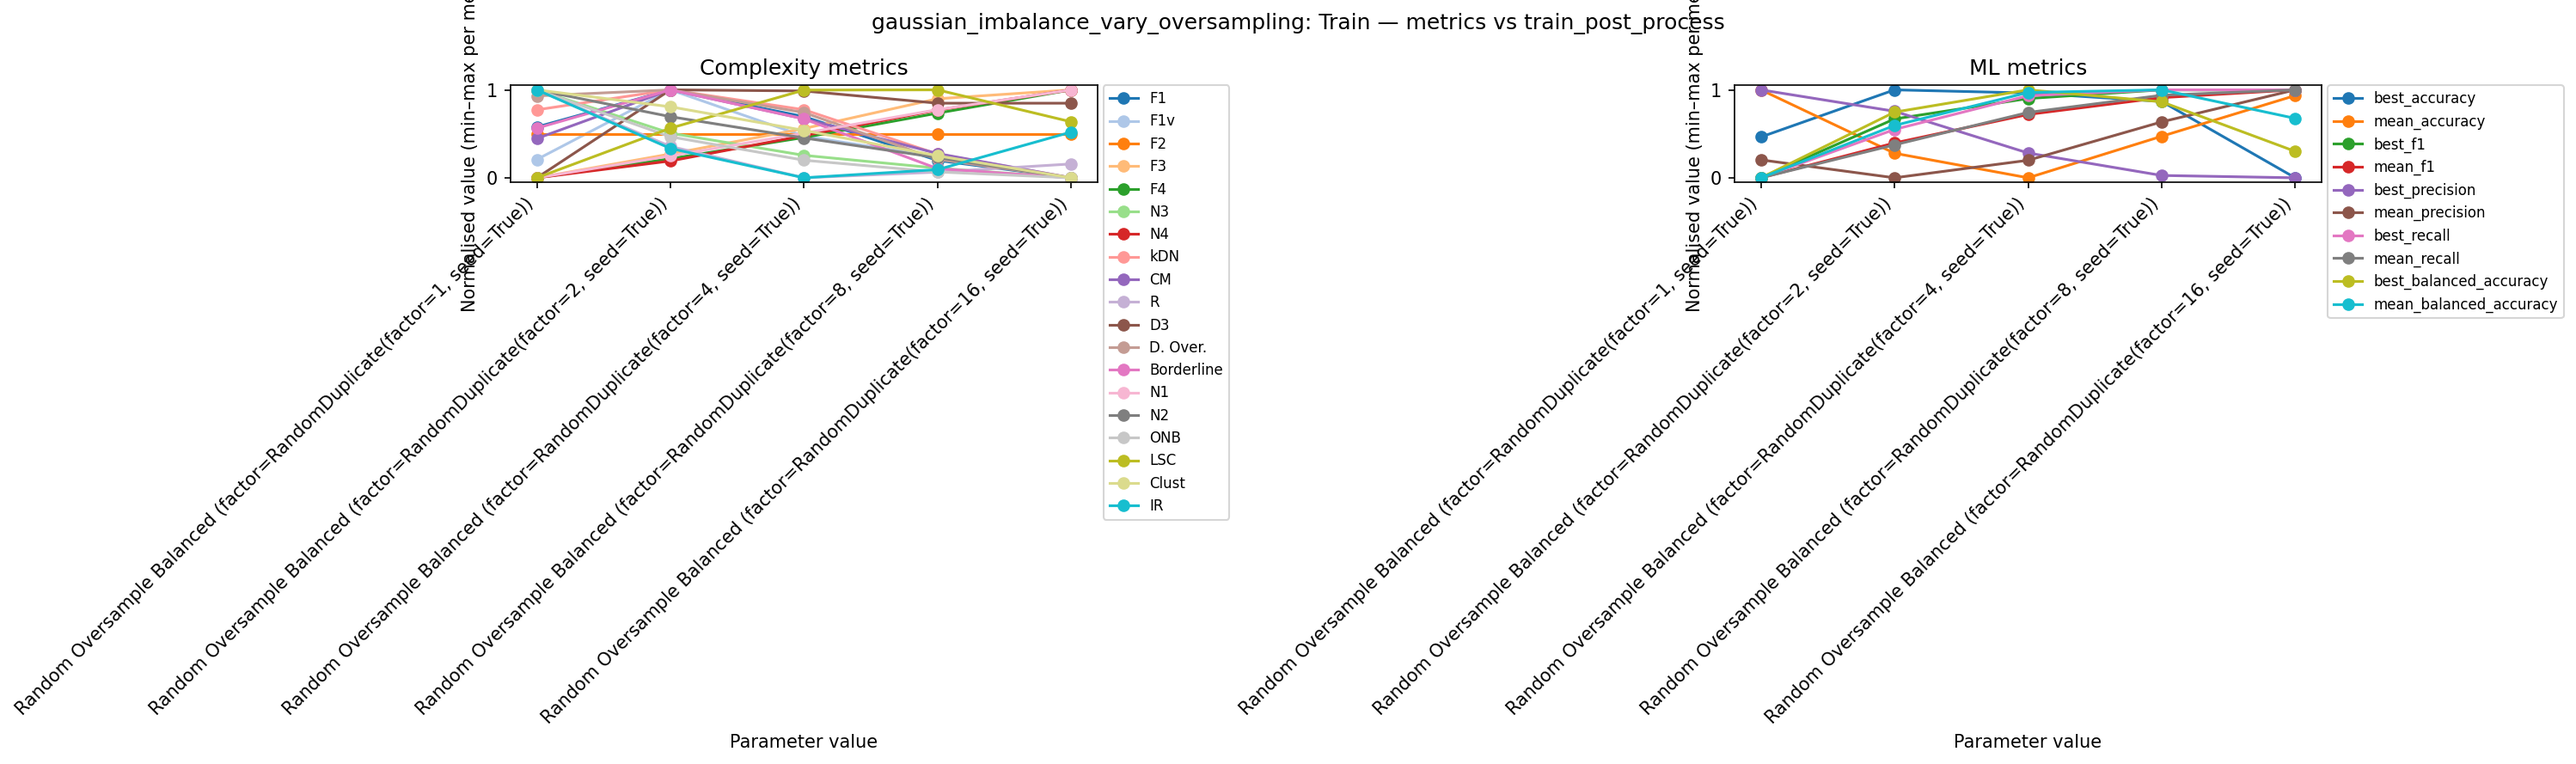
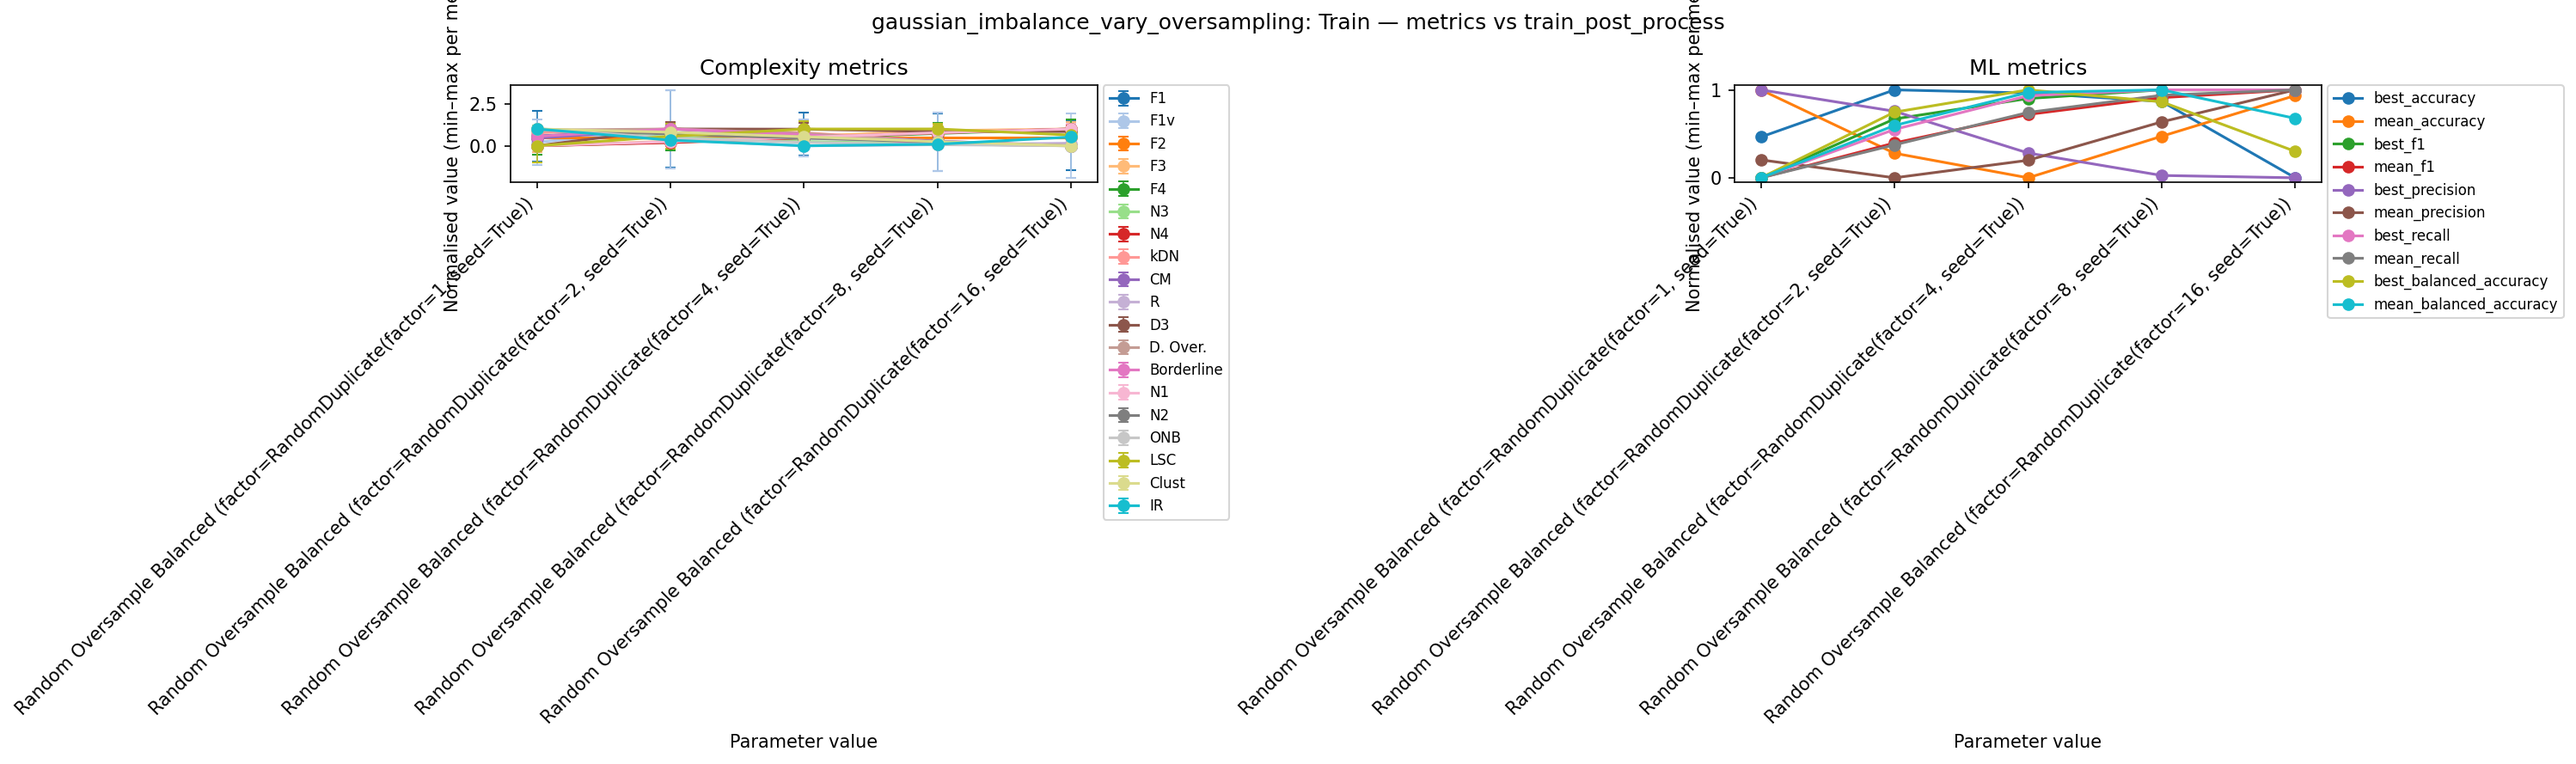
std in plots

Changed region(s): [[0.1552, 0.0, 0.4344, 0.3948]]

diff --git a/data_complexity/model_experiments/plotting.py b/data_complexity/model_experiments/plotting.py
@@ -251,14 +251,18 @@ def plot_metrics_vs_parameter(
     Line plot of all normalised complexity and ML metrics vs. a varied parameter.
 
     Each metric is min-max normalised independently across parameter values so
-    that all lines share the same y-axis scale.
+    that all lines share the same y-axis scale.  Where ``{metric}_std`` columns
+    are present in the DataFrames (produced by multi-seed experiments), error
+    bars scaled by the same normalisation are drawn around each line.
 
     Parameters
     ----------
     complexity_df : pd.DataFrame
         DataFrame with complexity metrics and a ``param_label`` column.
+        May also contain ``{metric}_std`` columns for error bars.
     ml_df : pd.DataFrame
         DataFrame with ML performance metrics.
+        May also contain ``{metric}_std`` columns for error bars.
     param_label_col : str
         Column in ``complexity_df`` used as x-axis labels. Default: 'param_label'
     title : str
@@ -285,34 +289,55 @@ def plot_metrics_vs_parameter(
     ]
     ml_cols = [
         c for c in ml_df.columns
-        if any(c.startswith(p) for p in ml_prefixes)
+        if any(c.startswith(p) for p in ml_prefixes) and not c.endswith("_std")
     ]
 
     x_labels = complexity_df[param_label_col].tolist()
     n_points = len(x_labels)
     x = np.arange(n_points)
 
-    def _normalise(values: np.ndarray) -> Optional[np.ndarray]:
-        """Min-max normalise; returns None if all-NaN, flat 0.5 if zero range."""
-        if np.all(np.isnan(values)):
-            return None
-        lo, hi = np.nanmin(values), np.nanmax(values)
-        if hi == lo:
-            return np.full_like(values, 0.5, dtype=float)
-        return (values - lo) / (hi - lo)
+    def _normalise(values: np.ndarray) -> tuple[Optional[np.ndarray], float, float]:
+        """Min-max normalise; returns (normalised, lo, hi).
 
-    # --- build normalised series ---
-    complexity_series = {}
+        Returns (None, 0, 0) if all-NaN, (flat 0.5, lo, lo) if zero range.
+        """
+        if np.all(np.isnan(values)):
+            return None, 0.0, 0.0
+        lo, hi = float(np.nanmin(values)), float(np.nanmax(values))
+        if hi == lo:
+            return np.full_like(values, 0.5, dtype=float), lo, lo
+        return (values - lo) / (hi - lo), lo, hi
+
+    def _normalise_std(std: np.ndarray, lo: float, hi: float) -> np.ndarray:
+        """Scale std by the same factor used for min-max normalisation."""
+        if hi == lo:
+            return np.zeros_like(std, dtype=float)
+        return std / (hi - lo)
+
+    # --- build normalised series (mean + optional std) ---
+    complexity_series: dict = {}
+    complexity_std_series: dict = {}
     for col in complexity_cols:
-        norm = _normalise(complexity_df[col].values.astype(float))
+        norm, lo, hi = _normalise(complexity_df[col].values.astype(float))
         if norm is not None:
             complexity_series[col] = norm
+            std_col = f"{col}_std"
+            if std_col in complexity_df.columns:
+                complexity_std_series[col] = _normalise_std(
+                    complexity_df[std_col].values.astype(float), lo, hi
+                )
 
-    ml_series = {}
+    ml_series: dict = {}
+    ml_std_series: dict = {}
     for col in ml_cols:
-        norm = _normalise(ml_df[col].values.astype(float))
+        norm, lo, hi = _normalise(ml_df[col].values.astype(float))
         if norm is not None:
             ml_series[col] = norm
+            std_col = f"{col}_std"
+            if std_col in ml_df.columns:
+                ml_std_series[col] = _normalise_std(
+                    ml_df[std_col].values.astype(float), lo, hi
+                )
 
     # --- colours ---
     cmap = plt.get_cmap("tab20")
@@ -321,9 +346,26 @@ def plot_metrics_vs_parameter(
     complexity_colors = [cmap(i / max(n_c, 1)) for i in range(n_c)]
     ml_colors = [cmap(i / max(n_m, 1)) for i in range(n_m)]
 
-    def _draw(ax: plt.Axes, series: dict, colors: list, linestyle: str) -> None:
+    def _draw(
+        ax: plt.Axes,
+        series: dict,
+        std_series: dict,
+        colors: list,
+        linestyle: str,
+    ) -> None:
         for (col, values), color in zip(series.items(), colors):
-            ax.plot(x, values, marker="o", linestyle=linestyle, color=color, label=col, linewidth=1.5)
+            yerr = std_series.get(col)
+            ax.errorbar(
+                x, values,
+                yerr=yerr,
+                marker="o",
+                linestyle=linestyle,
+                color=color,
+                label=col,
+                linewidth=1.5,
+                capsize=3,
+                elinewidth=0.8,
+            )
         ax.set_xticks(x)
         ax.set_xticklabels(x_labels, rotation=45, ha="right")
         ax.set_xlabel("Parameter value")
@@ -332,16 +374,27 @@ def plot_metrics_vs_parameter(
 
     if split_subplots:
         fig, (ax_c, ax_m) = plt.subplots(1, 2, figsize=(20, 6))
-        _draw(ax_c, complexity_series, complexity_colors, "-")
+        _draw(ax_c, complexity_series, complexity_std_series, complexity_colors, "-")
         ax_c.set_title("Complexity metrics")
-        _draw(ax_m, ml_series, ml_colors, "-")
+        _draw(ax_m, ml_series, ml_std_series, ml_colors, "-")
         ax_m.set_title("ML metrics")
         fig.suptitle(title)
     else:
         fig, ax = plt.subplots(figsize=(12, 6))
-        _draw(ax, complexity_series, complexity_colors, "-")
+        _draw(ax, complexity_series, complexity_std_series, complexity_colors, "-")
         for (col, values), color in zip(ml_series.items(), ml_colors):
-            ax.plot(x, values, marker="o", linestyle="--", color=color, label=col, linewidth=1.5)
+            yerr = ml_std_series.get(col)
+            ax.errorbar(
+                x, values,
+                yerr=yerr,
+                marker="o",
+                linestyle="--",
+                color=color,
+                label=col,
+                linewidth=1.5,
+                capsize=3,
+                elinewidth=0.8,
+            )
         ax.set_title(title)
 
     plt.tight_layout()

diff --git a/data_complexity/model_experiments/runs/run_gaussian_variance.py b/data_complexity/model_experiments/runs/run_gaussian_variance.py
@@ -46,14 +46,20 @@ config = ExperimentConfig(
     models=models,
     ml_metrics=["accuracy", "f1", "precision", "recall", "balanced_accuracy"],
     cv_folds=5,
-    plots=[PlotType.CORRELATIONS, PlotType.SUMMARY, PlotType.HEATMAP],
+    plots=[
+        PlotType.CORRELATIONS, 
+        PlotType.SUMMARY, 
+        PlotType.HEATMAP,
+        PlotType.LINE_PLOT_TRAIN,
+        PlotType.LINE_PLOT_TEST,
+        ],
     correlation_target="best_accuracy",
     name="gaussian_variance_example",
 )
 
 if __name__ == "__main__":
     exp = Experiment(config)
-    exp.run()
+    exp.run(n_jobs=-1)
     exp.compute_correlations()
     exp.print_summary(top_n=10)
     exp.save()
